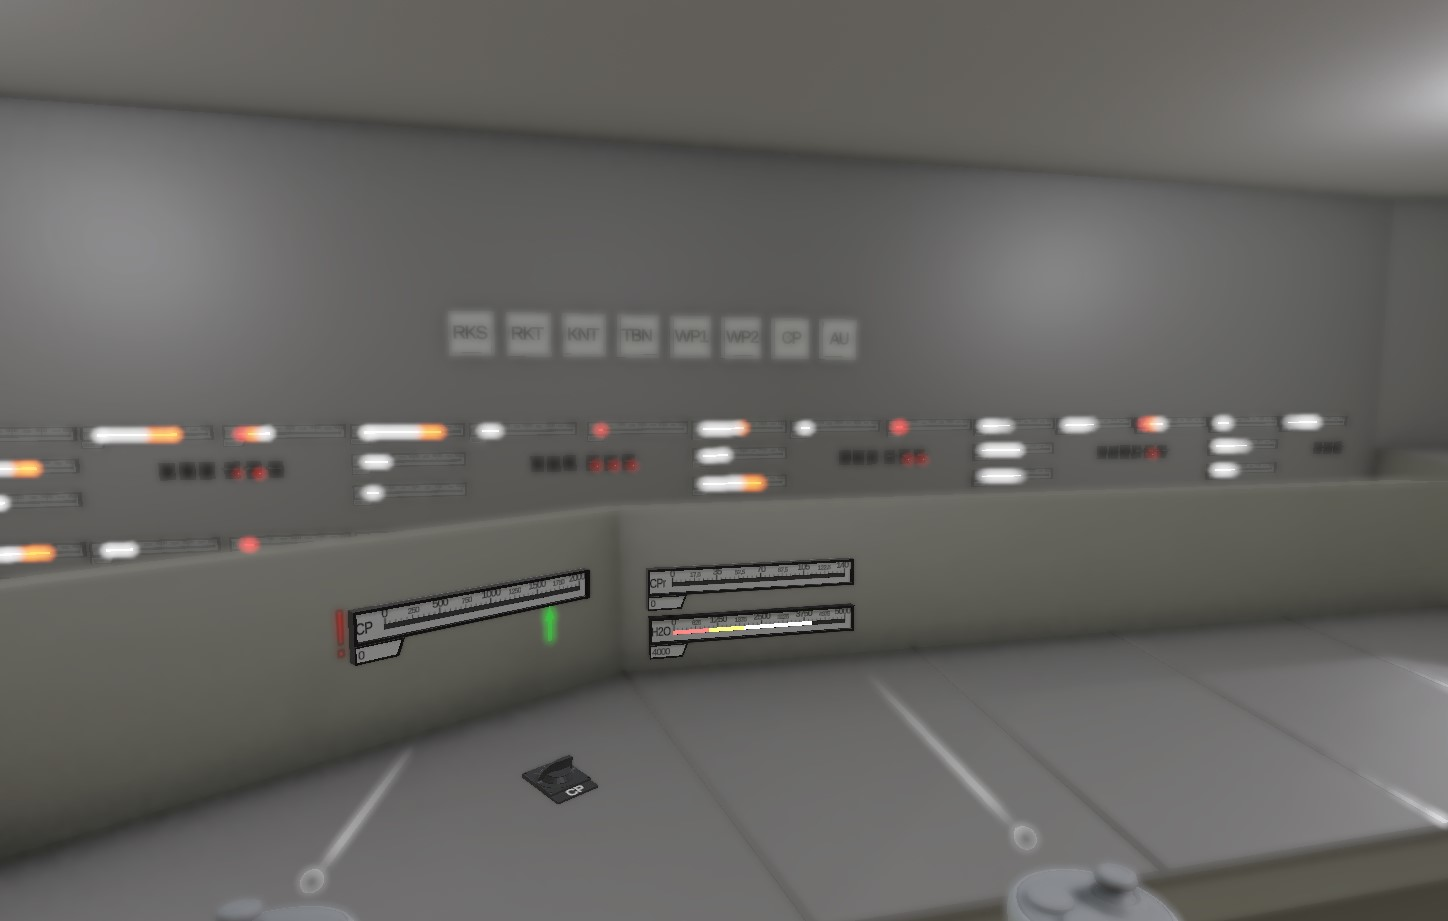
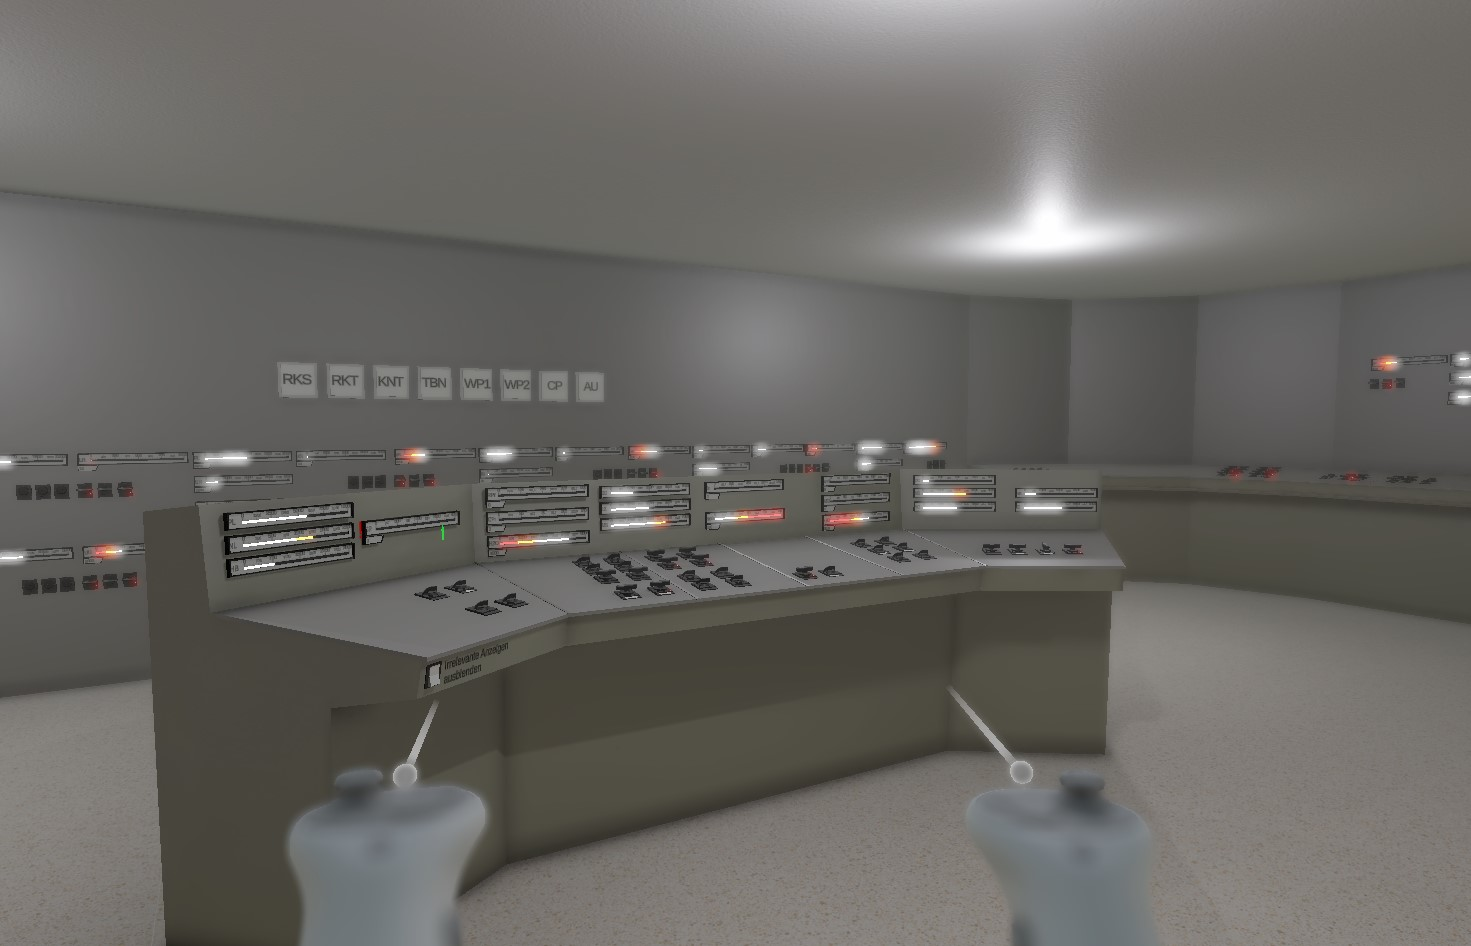
Update docs (images) + Readme

diff --git a/README.md b/README.md
@@ -39,15 +39,18 @@ der implementierten Gaze Guiding Elemente.
 
 | Bezeichnung                                 | Art                                        | Beschreibung                                                                                                                                                                                           |
 |---------------------------------------------|--------------------------------------------|--------------------------------------------------------------------------------------------------------------------------------------------------------------------------------------------------------|
-| `Rotationspfeile` (Kontinuierlich, Diskret) | <code style="color : aqua">HM</code>       | Typischerweise an Drehreglern positioniert. Signalisiert, dass eine Aktion an dem entsprechenden Regler nötig ist und gibt die Drehrichtung an. Nur sichtbar in unmittelbarer Nähe.                     |
+| `Rotationspfeile` (Kontinuierlich, Diskret) | <code style="color : aqua">HM</code>       | Typischerweise an Drehreglern positioniert. Signalisiert, dass eine Aktion an dem entsprechenden Regler nötig ist und gibt die Drehrichtung an. Nur sichtbar in unmittelbarer Nähe.                    |
 | `3D Pfeil`                                  | <code style="color : darkorange">GG</code> | Dreidimensionaler Pfeil, befindet sich zu jeder Zeit im Sichtfeld des Nutzers und deutet in die Richtung der auszuführenden Aktion.                                                                    |
 | `Path Pfeile`                               | <code style="color : darkorange">GG</code> | Ein oder mehrere Pfeile, welche einen Weg (Luftlinie) zu ausführbaren Aktionen abbilden.                                                                                                               |
 | `Anzeige Indikatoren`                       | <code style="color : aqua">HM</code>       | An Anzeigen angebrachten visuelle Indikatoren, bestehend aus einem roten Ausrufezeichen (Signalisiert eine erforderliche Aktion) und grünem Pfeil (Verdeutlicht Ausführung der erforderlichen Aktion). |
 | `Direction Cues`                            | <code style="color : darkorange">GG</code> | Rote Randerscheinungen welche aktiv werden, sobald die Blickrichtung von der eigentlichen position der erforderlichen Aktion abweicht.                                                                 |
 | `Head Up Display`                           | <code style="color : darkorange">GG</code> | Bildet aktuelle Aufgabe als Text in Form eines HUDs oberhalb der Blickrichtung ab.                                                                                                                     |
 | `Clipboard`                                 | <code style="color : aqua">HM</code>       | Heben aktuelle Aufgabe in einem auffälligen Farbton von den restlichen Schritten des Clipboards hervor.                                                                                                |
-| `Objekt Blur`                               | <code style="color : aqua">HM</code>       | Blenden für die auszuführende Aktion irrelevante Anzeigen und Regler vollständig aus.                                                                                                                  |
+| `Objekt Detach`                             | <code style="color : aqua">HM</code>       | Blendet für die auszuführende Aktion irrelevante Anzeigen und Regler vollständig aus.                                                                                                                  |
 | `Direktionaler Blur`                        | <code style="color : darkorange">GG</code> | Unschärfe Effekt für Anzeigen und Regler, welche für die auszuführende Aktion nicht relevant sind.                                                                                                     |
+| `Objekt Highlights`                         | <code style="color : darkorange">GG</code> | Relevante Objekte werden durch rote Rahmen und helles Leuchten hervorgehoben.                                                                                                                          |
+
+
 - <code style="color : aqua">HM</code> - Hilfsmittel
 - <code style="color : darkorange">GG</code> - Gaze Guiding
 

diff --git a/Docs/ggimages.md b/Docs/ggimages.md
@@ -7,7 +7,9 @@
 - [Direction Cues](#direction-cues)
 - [Head Up Display](#head-up-display)
 - [Clipboard](#clipboard)
-- [Blur Effekte](#objekt-blur)
+- [Detach](#detach)
+- [Blur](#blur)
+- [Display Highlights](#display-highlights)
 
 <hr>
 
@@ -42,6 +44,13 @@
 <img src="gg_clipboard.jpg" alt="Clipboard Highlights"/>
 
 
-## Blur Effekte
-<img src="gg_blur.jpg" alt="Blur Effekte"/>
+## Detach
+<img src="gg_detach.jpg" alt="Detach"/>
 
+## Blur
+<img src="gg_blur.jpg" alt="Blur"/>
+
+
+
+## Display Highlights
+<img src="gg_object_highlight.jpg" alt="Display Highlights"/>
